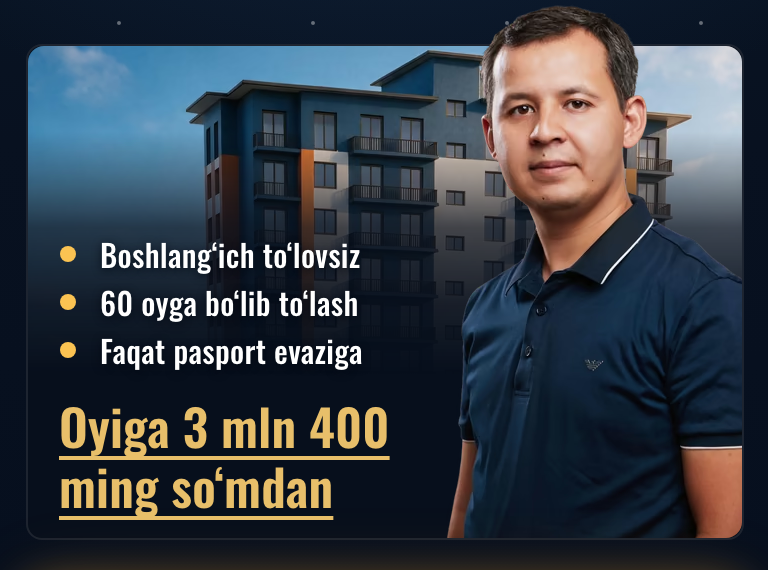
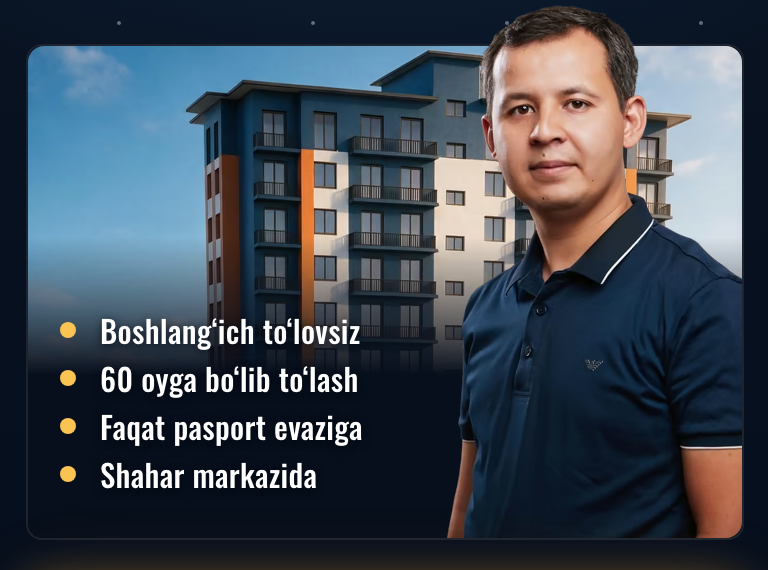
s

Changed region(s): [[0.0312, 0.2386, 0.7188, 0.9246], [0.8125, 0.2386, 0.9688, 0.507]]

diff --git a/index.html b/index.html
@@ -102,7 +102,7 @@ body{
 .badge{
   display:flex;align-items:center;gap:calc(6 * var(--u));
   height:calc(40 * var(--u));
-  padding:0 calc(10 * var(--u)) 0 calc(6.5 * var(--u));
+  padding:0 calc(10 * var(--u)) 0 calc(3.25 * var(--u));
   border:1px solid rgba(255,255,255,.22);
   border-radius:calc(20 * var(--u));
   background:rgba(255,255,255,.10);
@@ -139,11 +139,12 @@ body{
 }
 .card__media img{
   display:block;width:100%;height:calc(165 * var(--u));object-fit:cover;
-  /* The photo is used as shot, so the contrast for the white bullets over it comes
-     from here: the mask fades the image out into the card's dark background rather
-     than the image being darkened. Bullets start at 56% of this height. */
-  -webkit-mask-image:linear-gradient(180deg,#000 0%,#000 26%,rgba(0,0,0,.26) 55%,rgba(0,0,0,.08) 78%,transparent 100%);
-          mask-image:linear-gradient(180deg,#000 0%,#000 26%,rgba(0,0,0,.26) 55%,rgba(0,0,0,.08) 78%,transparent 100%);
+  /* The photo is used as shot, so contrast for the white bullets comes from here:
+     the mask fades the image into the card's dark background rather than darkening
+     the image itself. The bullets sit at the card's bottom now, mostly BELOW this
+     image, so the fade can start late and leave the building visible. */
+  -webkit-mask-image:linear-gradient(180deg,#000 0%,#000 58%,rgba(0,0,0,.5) 79%,transparent 100%);
+          mask-image:linear-gradient(180deg,#000 0%,#000 58%,rgba(0,0,0,.5) 79%,transparent 100%);
 }
 
 /* The figure overhangs the card's TOP edge but is clipped by its right and
@@ -166,9 +167,9 @@ body{
   display:block;
 }
 
-.card__body{position:absolute;left:0;right:0;top:0;padding:0 calc(16 * var(--u))}
+.card__body{position:absolute;left:0;right:0;bottom:calc(20 * var(--u));padding:0 calc(16 * var(--u))}
 
-.bullets{margin:calc(92 * var(--u)) 0 0;padding:0;list-style:none}
+.bullets{margin:0;padding:0;list-style:none}
 .bullets li{
   position:relative;
   padding-left:calc(20.5 * var(--u));
@@ -186,14 +187,6 @@ body{
   border-radius:50%;background:var(--gold);
 }
 
-.price{
-  margin:calc(11 * var(--u)) 0 0;
-  font-weight:600;
-  font-size:calc(25 * var(--u));
-  line-height:calc(29.5 * var(--u));
-  letter-spacing:calc(.1 * var(--u));
-  color:var(--gold-text);
-}
 
 /* -------------------------------------------------------------------- cta */
 .cta{
@@ -311,8 +304,8 @@ body{
         <li>Boshlang‘ich to‘lovsiz</li>
         <li>60 oyga bo‘lib to‘lash</li>
         <li>Faqat pasport evaziga</li>
+        <li>Shahar markazida</li>
       </ul>
-      <p class="price">Oyiga 3 mln 400<br>ming so‘mdan</p>
     </div>
   </section>
 

diff --git a/README.md b/README.md
@@ -76,8 +76,8 @@ runner-up (Saira Condensed) managed 73 %. Rerun with `node tools/match-glyphs.mj
 | h1 | 7.0 % | yes |
 | cta | 9.3 % | yes |
 | timer | 12.9 % | **no** — shows MM:SS, mockup shows HH:MM:SS |
-| card | 39.8 % | **no** — different building, different person, no price underline |
-| **overall** | **21.7 %** | |
+| card | 42.4 % | **no** — different building, different person, bullets relaid out |
+| **overall** | **22.8 %** | |
 
 Only the h1 and CTA numbers still measure fidelity, and they're at the floor: what's
 left there is text antialiasing, which never reaches zero on a thresholded diff.
@@ -103,9 +103,16 @@ column. Their diff percentages measure those decisions, not build quality.
    column, so the mockup's `SOAT` group is gone. Minutes accumulate rather than rolling
    into a hidden hours field, so a 90-minute deadline reads `90:00`, not `30:00`.
 5. **Badge, price and CTA carry your content, not the mockup's.** The badge reads
-   `25-AVGUST / 20:30da` (the mockup's `29-IYUN / VAQTI: 20:30`), the price lost its
-   underline, and the CTA points at your Telegram invite. `VAQTI:` was dropped because
-   `VAQTI: 20:30da` doubles the time marker — say the word to put the label back.
+   `25-AVGUST / 20:30da` (the mockup's `29-IYUN / VAQTI: 20:30`), the price line
+   (`Oyiga 3 mln 400 ming so'mdan`) is gone entirely, and the CTA points at your
+   Telegram invite. `VAQTI:` was dropped because `VAQTI: 20:30da` doubles the time
+   marker — say the word to put the label back.
+
+   With the price gone the bullet block was left floating high, so `.card__body` is
+   now anchored to the card's **bottom** edge (`bottom: 20`) instead of its top, and a
+   fourth bullet — **"Shahar markazida"** — was added to fill it out. That line is my
+   copy, not yours: it only restates the headline's claim so it invents nothing about
+   the property, but swap it for something you'd rather sell on.
 6. **Logo and clock are images, not SVG.** They're bespoke artwork that exists only
    inside `screen.png`; a hand-drawn SVG never converged (the header diff was 10.5 %
    with my traced version, 5.9 % with the real artwork). A logo is an asset, not text,
